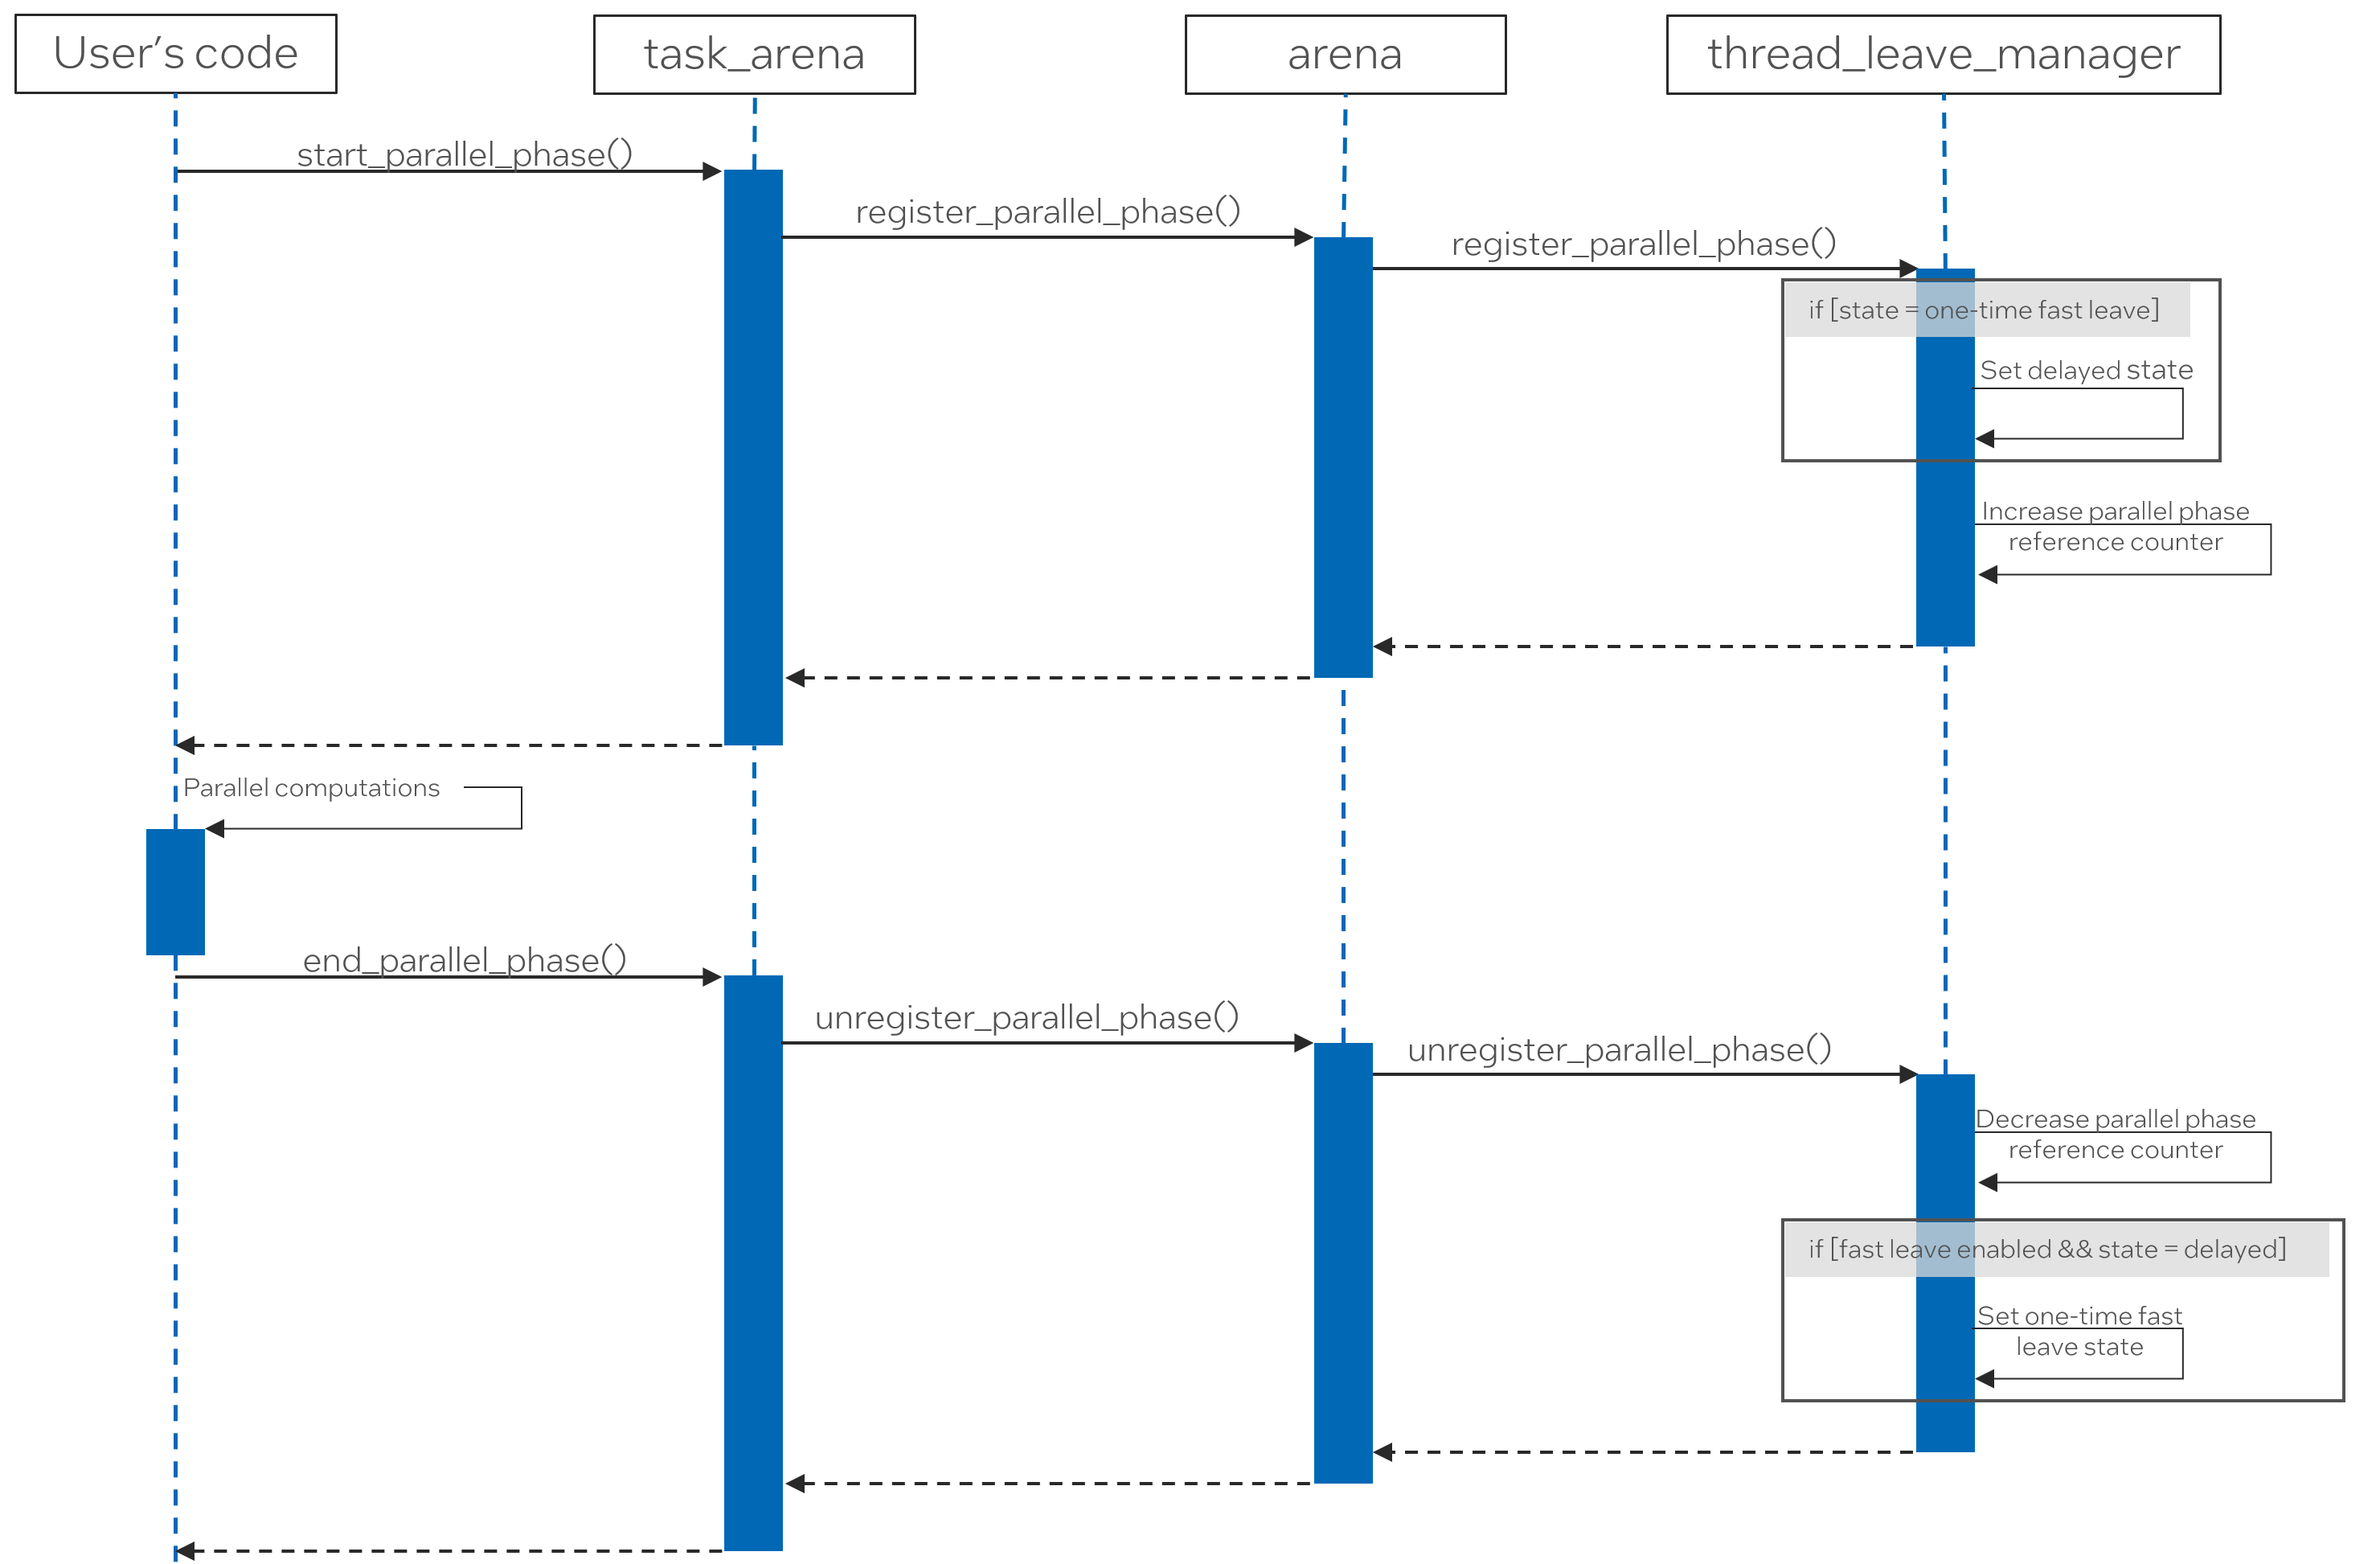
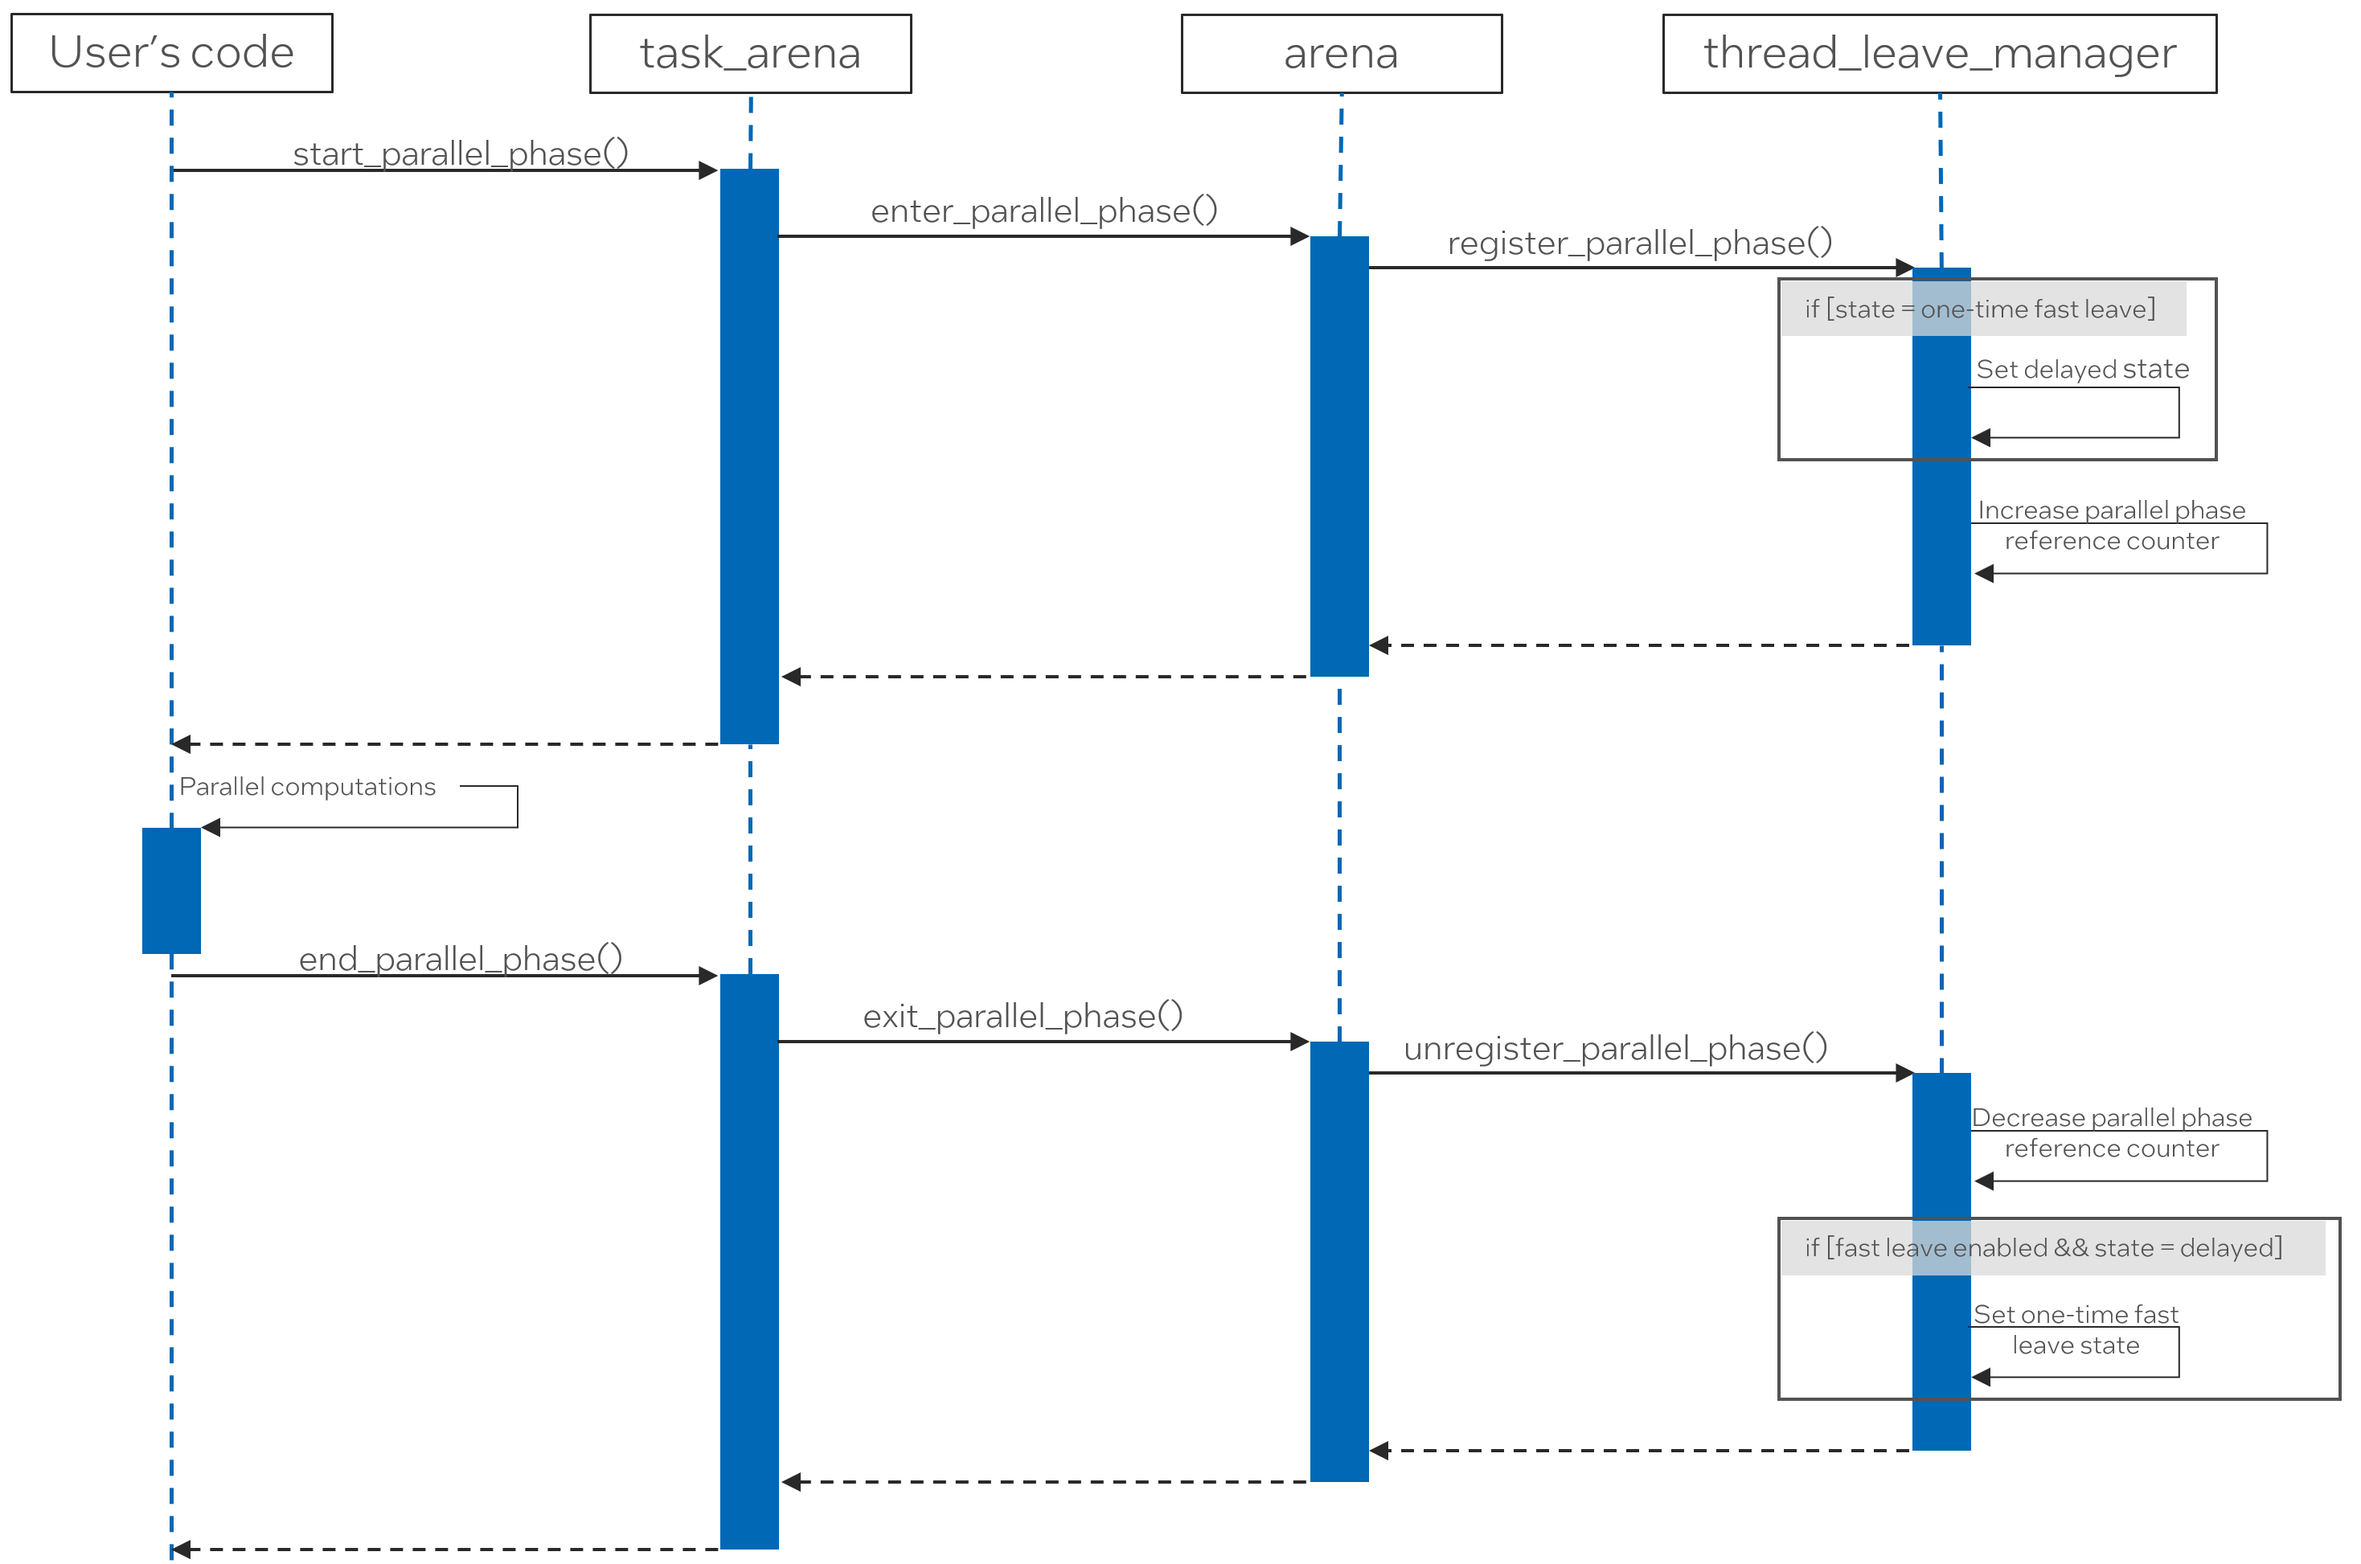
Rename entry points, simplify state machine interaction

diff --git a/src/tbb/arena.h b/src/tbb/arena.h
@@ -186,7 +186,7 @@ class thread_leave_manager {
     static const std::uintptr_t ONE_TIME_FAST_LEAVE = 1 << 1;
     static const std::uintptr_t PARALLEL_PHASE      = 1 << 2;
 
-    std::atomic<std::uintptr_t> my_state{static_cast<std::uintptr_t>(-1)};
+    std::atomic<std::uintptr_t> my_state{UINTPTR_MAX};
 public:
     // This method is not thread-safe!
     // Required to be called after construction to set initial state of the state machine.
@@ -202,39 +202,31 @@ public:
     }
 
     void reset_if_needed() {
-        std::uintptr_t curr = ONE_TIME_FAST_LEAVE;
-        if (my_state.load(std::memory_order_relaxed) == curr) {
-            // Potentially can override decision of the parallel block from future epoch
+        std::uintptr_t curr = my_state.load(std::memory_order_relaxed);
+        if (curr == ONE_TIME_FAST_LEAVE) {
+            // Potentially can override decision of the parallel phase from future epoch
             // but it is not a problem because it does not violate the correctness
-            my_state.compare_exchange_strong(curr, DELAYED_LEAVE);
+            my_state.fetch_and(~ONE_TIME_FAST_LEAVE);
         }
     }
 
     // Indicate start of parallel phase in the state machine
     void register_parallel_phase() {
-        std::uintptr_t prev = my_state.load(std::memory_order_relaxed);
-        __TBB_ASSERT(prev != std::uintptr_t(-1), "The initial state was not set");
+        __TBB_ASSERT(my_state.load(std::memory_order_relaxed) != UINTPTR_MAX, "The initial state was not set");
 
-        std::uintptr_t desired{};
-        do {
-            // Need to add a reference for this start of a parallel phase, preserving the leave
-            // policy. Except for the case when one time fast leave was requested at the end of a
-            // previous phase.
-            desired = prev;
-            if (prev == ONE_TIME_FAST_LEAVE) {
-                // State was previously transitioned to "One-time Fast leave", thus with the start
-                // of new parallel phase, it should be transitioned to "Delayed leave"
-                desired = DELAYED_LEAVE;
-            }
-            __TBB_ASSERT(desired + PARALLEL_PHASE > desired, "Overflow detected");
-            desired += PARALLEL_PHASE; // Take into account this start of a parallel phase
-        } while (!my_state.compare_exchange_strong(prev, desired));
+        std::uintptr_t prev = my_state.fetch_add(PARALLEL_PHASE);
+        __TBB_ASSERT(prev + PARALLEL_PHASE > prev, "Overflow detected");
+        if (prev & ONE_TIME_FAST_LEAVE) {
+            // State was previously transitioned to "One-time Fast leave", thus with the start
+            // of new parallel phase, it should be reset
+            my_state.fetch_and(~ONE_TIME_FAST_LEAVE);
+        }
     }
 
     // Indicate the end of parallel phase in the state machine
     void unregister_parallel_phase(bool enable_fast_leave) {
         std::uintptr_t prev = my_state.load(std::memory_order_relaxed);
-        __TBB_ASSERT(prev != std::uintptr_t(-1), "The initial state was not set");
+        __TBB_ASSERT(prev != UINTPTR_MAX, "The initial state was not set");
 
         std::uintptr_t desired{};
         do {
@@ -249,7 +241,7 @@ public:
 
     bool is_retention_allowed() {
         std::uintptr_t curr = my_state.load(std::memory_order_relaxed);
-        __TBB_ASSERT(curr != std::uintptr_t(-1), "The initial state was not set");
+        __TBB_ASSERT(curr != UINTPTR_MAX, "The initial state was not set");
         return curr != FAST_LEAVE && curr != ONE_TIME_FAST_LEAVE;
     }
 };

diff --git a/src/tbb/arena.cpp b/src/tbb/arena.cpp
@@ -527,8 +527,8 @@ struct task_arena_impl {
     static int max_concurrency(const d1::task_arena_base*);
     static void enqueue(d1::task&, d1::task_group_context*, d1::task_arena_base*);
     static d1::slot_id execution_slot(const d1::task_arena_base&);
-    static void register_parallel_phase(d1::task_arena_base*, std::uintptr_t);
-    static void unregister_parallel_phase(d1::task_arena_base*, std::uintptr_t);
+    static void enter_parallel_phase(d1::task_arena_base*, std::uintptr_t);
+    static void exit_parallel_phase(d1::task_arena_base*, std::uintptr_t);
 };
 
 void __TBB_EXPORTED_FUNC initialize(d1::task_arena_base& ta) {
@@ -563,12 +563,12 @@ d1::slot_id __TBB_EXPORTED_FUNC execution_slot(const d1::task_arena_base& arena)
     return task_arena_impl::execution_slot(arena);
 }
 
-void __TBB_EXPORTED_FUNC register_parallel_phase(d1::task_arena_base* ta, std::uintptr_t flags) {
-    task_arena_impl::register_parallel_phase(ta, flags);
+void __TBB_EXPORTED_FUNC enter_parallel_phase(d1::task_arena_base* ta, std::uintptr_t flags) {
+    task_arena_impl::enter_parallel_phase(ta, flags);
 }
 
-void __TBB_EXPORTED_FUNC unregister_parallel_phase(d1::task_arena_base* ta, std::uintptr_t flags) {
-    task_arena_impl::unregister_parallel_phase(ta, flags);
+void __TBB_EXPORTED_FUNC exit_parallel_phase(d1::task_arena_base* ta, std::uintptr_t flags) {
+    task_arena_impl::exit_parallel_phase(ta, flags);
 }
 
 void task_arena_impl::initialize(d1::task_arena_base& ta) {
@@ -918,14 +918,14 @@ int task_arena_impl::max_concurrency(const d1::task_arena_base *ta) {
 }
 
 #if __TBB_PREVIEW_PARALLEL_PHASE
-void task_arena_impl::register_parallel_phase(d1::task_arena_base* ta, std::uintptr_t /*reserved*/) {
+void task_arena_impl::enter_parallel_phase(d1::task_arena_base* ta, std::uintptr_t /*reserved*/) {
     arena* a = ta ? ta->my_arena.load(std::memory_order_relaxed) : governor::get_thread_data()->my_arena;
     __TBB_ASSERT(a, nullptr);
     a->my_thread_leave.register_parallel_phase();
     a->advertise_new_work<arena::work_enqueued>();
 }
 
-void task_arena_impl::unregister_parallel_phase(d1::task_arena_base* ta, std::uintptr_t flags) {
+void task_arena_impl::exit_parallel_phase(d1::task_arena_base* ta, std::uintptr_t flags) {
     arena* a = ta ? ta->my_arena.load(std::memory_order_relaxed) : governor::get_thread_data()->my_arena;
     __TBB_ASSERT(a, nullptr);
     a->my_thread_leave.unregister_parallel_phase(/*with_fast_leave=*/static_cast<bool>(flags));

diff --git a/include/oneapi/tbb/task_arena.h b/include/oneapi/tbb/task_arena.h
@@ -97,8 +97,8 @@ TBB_EXPORT void __TBB_EXPORTED_FUNC enqueue(d1::task&, d1::task_group_context&, 
 TBB_EXPORT void __TBB_EXPORTED_FUNC submit(d1::task&, d1::task_group_context&, arena*, std::uintptr_t);
 
 #if __TBB_PREVIEW_PARALLEL_PHASE
-TBB_EXPORT void __TBB_EXPORTED_FUNC register_parallel_phase(d1::task_arena_base*, std::uintptr_t);
-TBB_EXPORT void __TBB_EXPORTED_FUNC unregister_parallel_phase(d1::task_arena_base*, std::uintptr_t);
+TBB_EXPORT void __TBB_EXPORTED_FUNC enter_parallel_phase(d1::task_arena_base*, std::uintptr_t);
+TBB_EXPORT void __TBB_EXPORTED_FUNC exit_parallel_phase(d1::task_arena_base*, std::uintptr_t);
 #endif
 } // namespace r1
 
@@ -496,12 +496,12 @@ public:
 #if __TBB_PREVIEW_PARALLEL_PHASE
     void start_parallel_phase() {
         initialize();
-        r1::register_parallel_phase(this, /*reserved*/0);
+        r1::enter_parallel_phase(this, /*reserved*/0);
     }
     void end_parallel_phase(bool with_fast_leave = false) {
         __TBB_ASSERT(my_initialization_state.load(std::memory_order_relaxed) == do_once_state::initialized, nullptr);
         // It is guaranteed by the standard that conversion of boolean to integral type will result in either 0 or 1
-        r1::unregister_parallel_phase(this, static_cast<std::uintptr_t>(with_fast_leave));
+        r1::exit_parallel_phase(this, static_cast<std::uintptr_t>(with_fast_leave));
     }
 
     class scoped_parallel_phase {
@@ -589,12 +589,12 @@ inline void enqueue(F&& f) {
 
 #if __TBB_PREVIEW_PARALLEL_PHASE
 inline void start_parallel_phase() {
-    r1::register_parallel_phase(nullptr, /*reserved*/0);
+    r1::enter_parallel_phase(nullptr, /*reserved*/0);
 }
 
 inline void end_parallel_phase(bool with_fast_leave) {
     // It is guaranteed by the standard that conversion of boolean to integral type will result in either 0 or 1
-    r1::unregister_parallel_phase(nullptr, static_cast<std::uintptr_t>(with_fast_leave));
+    r1::exit_parallel_phase(nullptr, static_cast<std::uintptr_t>(with_fast_leave));
 }
 #endif
 

diff --git a/rfcs/experimental/parallel_phase_for_task_arena/README.md b/rfcs/experimental/parallel_phase_for_task_arena/README.md
@@ -261,9 +261,9 @@ To implement the proposed feature, the following changes were made:
 * Added a new entity `thread_leave_manager` to the `r1::arena` which is responsible for
   for managing the state of workers' arena leaving behaviour.
 * Introduced two new entry points to the library.
-  * `r1::register_parallel_phase(d1::task_arena_base*, std::uintptr_t)` - used to communicate
+  * `r1::enter_parallel_phase(d1::task_arena_base*, std::uintptr_t)` - used to communicate
     the start of parallel phase with the library.
-  * `r1::unregister_parallel_phase(d1::task_arena_base*, std::uintptr_t)` - used to communicate
+  * `r1::exit_parallel_phase(d1::task_arena_base*, std::uintptr_t)` - used to communicate
     the end of parallel phase with the library.
 
 ### Thread Leave Manager
